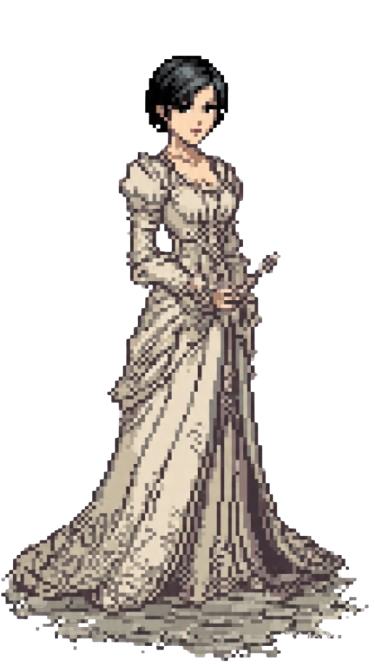
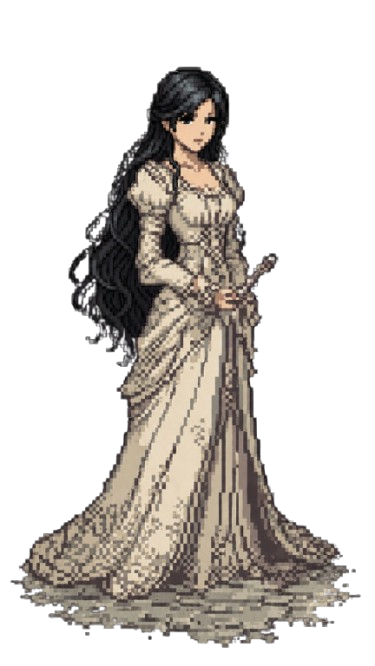
feat and reafactor: 1. Combat Overhaul (Hit-Stop & Combos)   > feat: implement hit-stop and branching cyclone slash combo   >   > *   Added triggerHitStop to GameplayScene for impactful combat.   > *   Refactored Player.ts combo system to support branching 3-hit finishers.   >    Introduced Cyclone 
2. Final Boss Overhaul (3-Phase Climax)
  > feat: implement epic 3-phase final boss for Stage 5
  >
  >    Overhauled Ashen Knight* with 3000 HP and 55 ATK.
  >    Implemented specialized AI phases with Void Teleport and Ashen Storm* ultimate.
  > *   Added cinematic phase transitions (invulnerability, alert notifications, scaling).

  3. Movement & Stability Fixes
  > refactor: improve combat movement and collision stability
  >
  >    Integrated Shift Dash* (35 stamina cost) for tactical movement.
  > *   Raised spawn heights to H-3 to prevent clipping into the ground.
  > *   Fixed player orientation flip logic and implemented surgical hitboxes (75x60px).

  4. Initialization Fixes
  > fix: resolve map loading and initialization crash
  >
  > *   Added defensive initialization for scene systems.
  > *   Fixed syntax errors in GameplayScene.ts and variable reference bugs in Player.ts.
  > *   Restored reliable ground rendering regardless of theme.

Changed region(s): [[0.0, 0.0601, 0.9973, 1.0]]

diff --git a/src/scenes/GameplayScene.ts b/src/scenes/GameplayScene.ts
@@ -296,11 +296,106 @@ export class GameplayScene extends Phaser.Scene {
 
     if (round.preDialogue) {
       store.openDialogue(round.preDialogue as any, () => {
-        this.time.delayedCall(300, startCombat);
+        if (round.boss && round.boss.id === 'ashen_knight') {
+          this.playBossCinematic(() => {
+            this.time.delayedCall(300, startCombat);
+          });
+        } else {
+          this.time.delayedCall(300, startCombat);
+        }
       });
     } else {
       startCombat();
     }
+  }
+
+  private playBossCinematic(onComplete: () => void) {
+    const width = this.cameras.main.width;
+    const height = this.cameras.main.height;
+    
+    // Create cinematic layer
+    const overlay = this.add.rectangle(0, 0, width, height, 0x000000)
+      .setOrigin(0)
+      .setScrollFactor(0)
+      .setDepth(900)
+      .setAlpha(0);
+
+    const img = this.add.image(width / 2, height / 2, 'anim_boss_vs_mc')
+      .setScrollFactor(0)
+      .setDepth(901)
+      .setAlpha(0);
+
+    // Initial scale to fit the screen width, then slightly larger for pan effect
+    const scaleX = width / img.width;
+    const scaleY = height / img.height;
+    const baseScale = Math.max(scaleX, scaleY) * 1.1; // crop effect
+    img.setScale(baseScale);
+
+    // Letterbox bars
+    const barHeight = height * 0.15;
+    const topBar = this.add.rectangle(0, -barHeight, width, barHeight, 0x000000)
+      .setOrigin(0)
+      .setScrollFactor(0)
+      .setDepth(902);
+    
+    const bottomBar = this.add.rectangle(0, height, width, barHeight, 0x000000)
+      .setOrigin(0)
+      .setScrollFactor(0)
+      .setDepth(902);
+
+    // Fade in overlay and image
+    this.tweens.add({
+      targets: [overlay, img],
+      alpha: 1,
+      duration: 800,
+      onComplete: () => {
+        // Animate letterbox in
+        this.tweens.add({
+          targets: topBar,
+          y: 0,
+          duration: 500,
+          ease: 'Power2'
+        });
+        this.tweens.add({
+          targets: bottomBar,
+          y: height - barHeight,
+          duration: 500,
+          ease: 'Power2'
+        });
+
+        // Dramatic slow pan and slight zoom
+        this.tweens.add({
+          targets: img,
+          scale: baseScale * 1.3,
+          y: img.y - 40,
+          duration: 3500,
+          ease: 'Sine.easeInOut',
+          onComplete: () => {
+            // Flash and end
+            const flash = this.add.rectangle(0, 0, width, height, 0xffffff)
+              .setOrigin(0)
+              .setScrollFactor(0)
+              .setDepth(903)
+              .setAlpha(0);
+
+            this.tweens.add({
+              targets: flash,
+              alpha: 1,
+              duration: 150,
+              yoyo: true,
+              onComplete: () => {
+                overlay.destroy();
+                img.destroy();
+                topBar.destroy();
+                bottomBar.destroy();
+                flash.destroy();
+                onComplete();
+              }
+            });
+          }
+        });
+      }
+    });
   }
 
   private spawnRoundEnemies(round: ZoneRound) {

diff --git a/src/systems/storyData.ts b/src/systems/storyData.ts
@@ -201,7 +201,8 @@ export const BATTLEFIELD_BOSS_PRE: DialogueLine[] = [
   { speaker: 'Alden', portrait: 'alden', text: 'Nggak. Gue udah kehilangan terlalu banyak buat kalah sama bayangan pake muka orang mati.', emotion: 'determined' },
   { speaker: 'Ashen Knight', text: 'Lo udah kalah, ksatria cilik. Lo kalah sejak lo cinta sama kerajaan yang nggak bakal pernah balas cinta lo.', emotion: 'angry' },
   { speaker: 'Alden', portrait: 'alden', text: 'Mungkin. Tapi gue nggak berjuang buat kerajaannya. Gue berjuang buat orang-orang DI DALEMNYA.', emotion: 'determined' },
-  { speaker: '— Narrator —', text: 'Alden angkat pedangnya satu kali terakhir. Beratnya setiap teman yang jatuh, setiap sumpah yang patah, setiap luka — disalurin ke satu momen.', emotion: 'determined', isNarration: true },
+  { speaker: '— Narrator —', text: 'Saat kegelapan mutlak Ashen Knight hampir menelan sisa jiwanya, Jimat Ksatria dari Tam di dadanya mendadak terasa hangat. Di saat yang sama, Pedupaan Suci dari Wandering Nun memancarkan cahaya keemasan lembut, menghalau kabut hitam di sekelilingnya.', emotion: 'loving', isNarration: true },
+  { speaker: '— Narrator —', text: 'Alden mengangkat Forsaken Blade pemberian Edric satu kali terakhir. Beratnya setiap teman yang jatuh, setiap sumpah yang patah, setiap luka — disalurin ke satu tebasan mahadahsyat.', emotion: 'determined', isNarration: true },
   { speaker: 'Alden', portrait: 'alden', text: 'Demi Aelindra. Demi semua yang nggak bisa gue selametin. GUE AKHIRI INI.', emotion: 'determined' },
 ];
 
@@ -217,6 +218,7 @@ export const BATTLEFIELD_BOSS_POST: DialogueLine[] = [
 export const ENDING_SCENE: DialogueLine[] = [
   { speaker: '— Narrator —', text: 'Kegelapan tersegel. Yang kuno — akhirnya bungkam.', isNarration: true, emotion: 'neutral' },
   { speaker: '— Narrator —', text: 'Tapi luka yang dibawa Alden... terlalu dalem. Bahkan buat ksatria yang udah selamat dari semuanya.', isNarration: true, emotion: 'sad' },
+  { speaker: '— Narrator —', text: 'Di tengah kesunyian medan perang, langkah kaki terburu-buru memecah keheningan. Evelyne, yang menyusul dengan rasa cemas yang tak tertahankan, jatuh terduduk di samping ksatria itu.', isNarration: true, emotion: 'sad' },
   { speaker: 'Princess Evelyne', portrait: 'evelyne', text: '*berlutut di sampingnya, tangan nahan lukanya* Alden. Alden, jangan pergi. Please. Tabibnya dateng—', emotion: 'sad' },
   { speaker: 'Alden', portrait: 'alden', text: '...Nggak apa-apa. Gue... gue nggak dingin. Aneh ya.', emotion: 'sad' },
   { speaker: 'Princess Evelyne', portrait: 'evelyne', text: '*air mata jatuh* Jangan berani-beraninya lo nerima ini. Lawan.', emotion: 'sad' },

diff --git a/src/ui/DialogueSystem.tsx b/src/ui/DialogueSystem.tsx
@@ -4,8 +4,8 @@ import { useGameStore } from '../store/gameStore';
 const PORTRAIT_COLORS: Record<string, { bg: string; border: string; emoji: string; img?: string }> = {
   alden:      { bg: '#1a2a3a', border: '#4169e1', emoji: '⚔️', img: '/assets/images/knight_player.png' },
   evelyne:    { bg: '#2a1a2a', border: '#da70d6', emoji: '👑', img: '/assets/images/evelyn-princess.png' },
-  valther:    { bg: '#1a0505', border: '#8b0000', emoji: '🗡️' },
-  king:       { bg: '#2a2010', border: '#b8860b', emoji: '♔' },
+  valther:    { bg: '#1a0505', border: '#8b0000', emoji: '🗡️', img: '/assets/images/valther.svg' },
+  king:       { bg: '#2a2010', border: '#b8860b', emoji: '♔', img: '/assets/images/king.svg' },
   blacksmith: { bg: '#2a1a0a', border: '#8b6914', emoji: '🔨', img: '/assets/images/npc-blacksmith.png' },
   nun:        { bg: '#0a0a1a', border: '#9370db', emoji: '✝️', img: '/assets/images/npc-thenun.png' },
   boy:        { bg: '#1a2a10', border: '#32cd32', emoji: '🌟', img: '/assets/images/npc-villages-boy.png' },

diff --git a/src/ui/PrologueScreen.tsx b/src/ui/PrologueScreen.tsx
@@ -14,8 +14,8 @@ interface CinematicLine {
 const PORTRAIT_COLORS: Record<string, { bg: string; border: string; emoji: string; img?: string }> = {
   alden:      { bg: '#1a2a3a', border: '#4169e1', emoji: '⚔️', img: '/assets/images/knight_player.png' },
   evelyne:    { bg: '#2a1a2a', border: '#da70d6', emoji: '👑', img: '/assets/images/evelyn-princess.png' },
-  valther:    { bg: '#1a0505', border: '#8b0000', emoji: '🗡️' },
-  king:       { bg: '#2a2010', border: '#b8860b', emoji: '♔' },
+  valther:    { bg: '#1a0505', border: '#8b0000', emoji: '🗡️', img: '/assets/images/valther.svg' },
+  king:       { bg: '#2a2010', border: '#b8860b', emoji: '♔', img: '/assets/images/king.svg' },
   blacksmith: { bg: '#2a1a0a', border: '#8b6914', emoji: '🔨', img: '/assets/images/npc-blacksmith.png' },
   nun:        { bg: '#0a0a1a', border: '#9370db', emoji: '✝️', img: '/assets/images/npc-thenun.png' },
   boy:        { bg: '#1a2a10', border: '#32cd32', emoji: '🌟', img: '/assets/images/npc-villages-boy.png' },

diff --git a/src/scenes/PreloadScene.ts b/src/scenes/PreloadScene.ts
@@ -13,6 +13,7 @@ export class PreloadScene extends Phaser.Scene {
     this.load.image('enemy_beast_sprite', 'assets/images/beast_enemy.png');
     this.load.image('enemy_corrupted_sprite', 'assets/images/corrupted_enemy.png');
     this.load.image('boss_blind_king_sprite', 'assets/images/blind_king_boss.png');
+    this.load.image('anim_boss_vs_mc', 'assets/images/animation/pict-animasi-boss-vs-mc.png');
 
     // Load background assets
     this.load.image('bg_village', 'assets/images/village bg.jpeg');